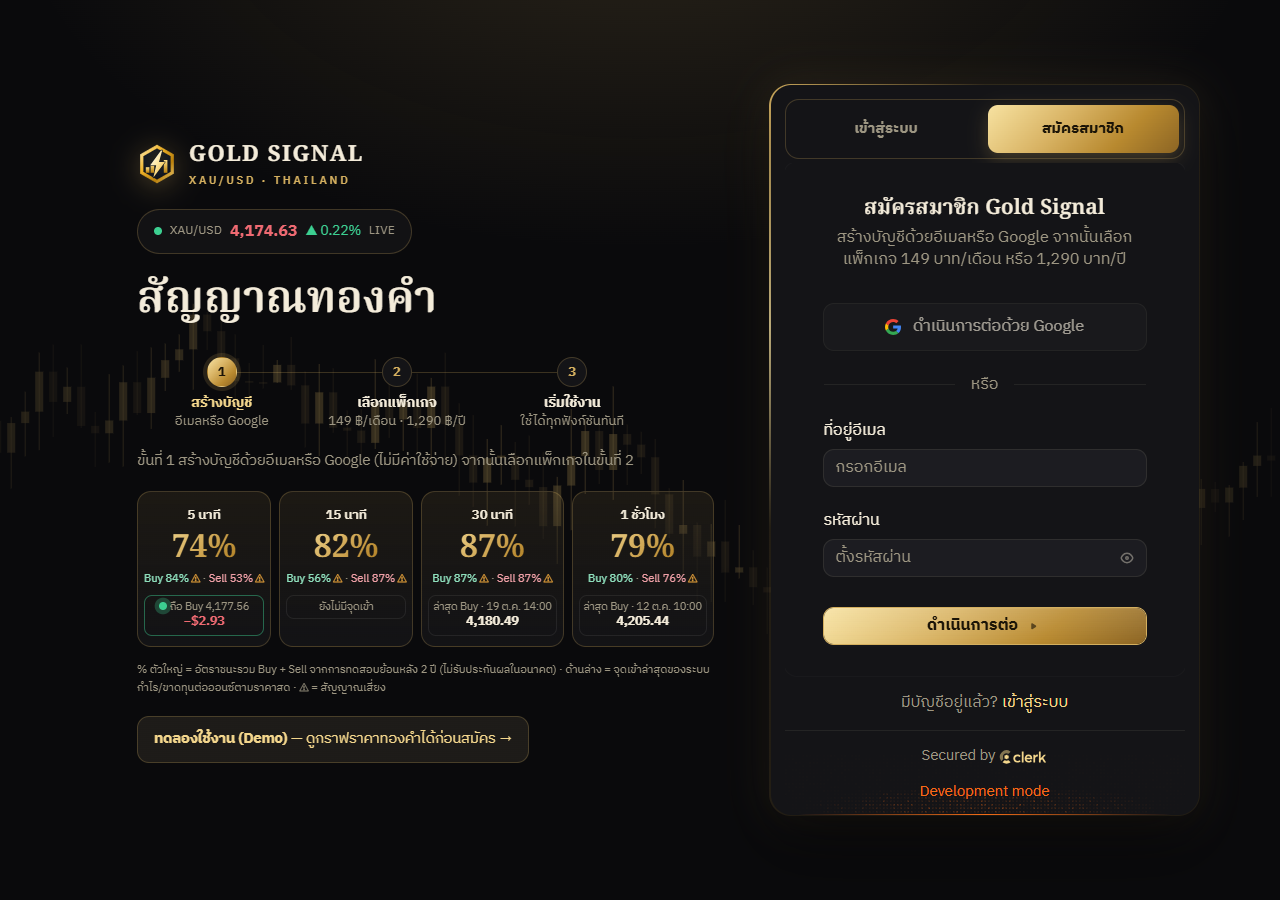
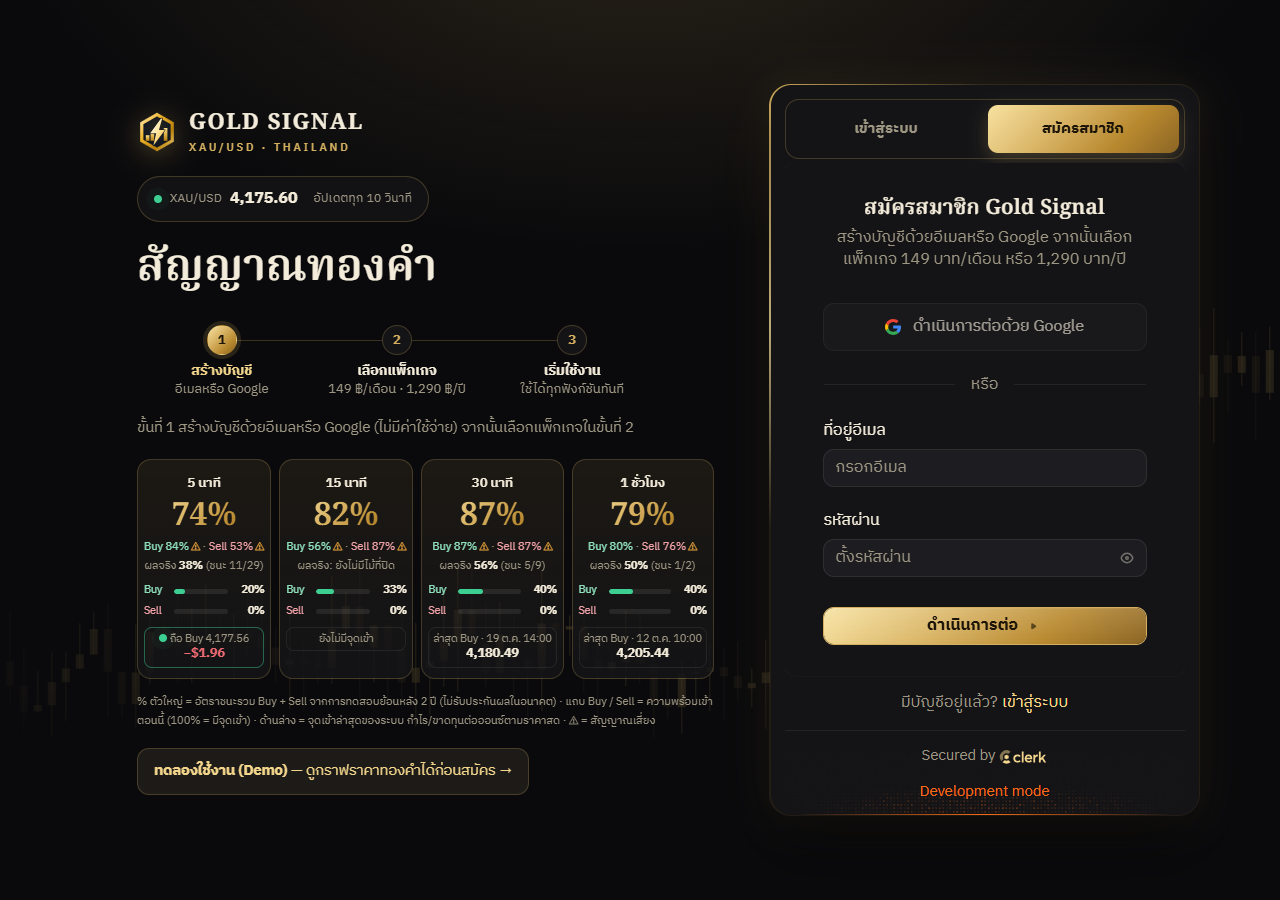
Docs: live readiness on sign-up tiles

Changed region(s): [[0.0938, 0.1244, 0.5625, 0.8711], [0.9375, 0.3733, 1.0, 0.4356], [0.0, 0.4356, 0.0625, 0.4978]]

diff --git a/Skill.md b/Skill.md
@@ -316,6 +316,12 @@ gh workflow run weekly-summary.yml -R tanakrthum254614-max/gold-signal -f send=t
 
 > จัดเรียงใหม่ 14 ต.ค. 2569: เนื้อหาเดิมครบทุกหัวข้อ แค่เรียงตามวันที่ (ใหม่ → เก่า) · งานใหม่ให้เพิ่มหัวข้อไว้บนสุดของส่วนนี้
 
+## 19 ต.ค. 2569 — ⚡ ช่อง 4 กรอบ: ความพร้อมเข้าสด + ผลจริง
+- ผู้ใช้: "ขอแบบเรียลไทม์ให้ตัวเลขเรียลไทม์ในการเข้าและขยับเปอร์เซ็นต่างๆ" → ถาม → "ทั้งสองแบบ"
+- lib/blog.mjs `?blog=1&ready=1` (public): createRequire → chartsys.js (+ intraday/indicators/signals) · Binance PAXG klines 5m/15m/30m/1h(1000 → h5)/4h · `CS.decide(sys, frames, now, [], true)` (แท่งที่กำลังวิ่ง, ไม่ส่งข่าว) → `CS.sideInfo(...).pct` ต่อฝั่ง (null = ไม่มีฝั่งนั้น) · `closed` = dec.stale · cache 10 วิ ต่อ instance · **vercel.json `functions.api/market.mjs.includeFiles = "{chartsys,intraday,indicators,signals}.js"`** (ไม่มีแล้ว function หาไฟล์ไม่เจอ)
+- login.html ช่อง: `.lv` "ผลจริง x% (ชนะ w/n)" รวม Buy+Sell จาก tiles[].buy/sell.live/wins · `.rdy` แถบ Buy/Sell + % (loadReady ทุก 10 วิ, 100% = สีทอง, ตลาดปิด = "ปิด") · tcap อธิบายแถบ
+- ตรวจ: 1h Buy 40% ตรงกับเว็บสมาชิก · tilelive.mjs ตอบ ready=1 ด้วย blogGET จริง · เว็บจริงตอบ ok · commit a5a9a4e
+
 ## 19 ต.ค. 2569 — ✂ หน้าสมัคร: เอา "สัญญาณวันนี้" ออก
 - ผู้ใช้ (ภาพรายการ): "เอาออกห้าตอนสมัครสมาชิก" → login.html ลบ `<div class="today">` (renderToday เหลือแต่ไม่มีที่แสดง → return) · การ์ด #todayCard ในเว็บสมาชิกยังอยู่ · API today ยังอยู่
 - ผู้ใช้ถาม "Sigzy คืออะไร" → ค้นแล้วเจอแอป iOS "Sig-Zy: Binary Signals" (สัญญาณ Forex/ไบนารีออปชัน กราฟ 1–4 ชม. อ้างชนะ 75% — ตรวจสอบไม่ได้) ไม่ได้เพิ่มอะไรในระบบ

diff --git a/README.md b/README.md
@@ -32,7 +32,7 @@
 <td><img src="docs/img/pricing.png" alt="Pricing"><br><sub><b>แพ็กเกจสมาชิก</b> — ชำระผ่าน Stripe (บัตร / PromptPay)</sub></td>
 </tr>
 <tr>
-<td><img src="docs/img/login.png" alt="Sign up"><br><sub><b>การเข้าสู่ระบบและสมัครสมาชิก</b> — จัดวางสองส่วน: ข้อมูลด้านซ้าย แบบฟอร์มด้านขวา พร้อมราคาทองคำแบบเรียลไทม์ อัตราชนะรวมและแยกฝั่ง Buy / Sell จากการทดสอบย้อนหลัง และจุดเข้าล่าสุดของแต่ละกรอบเวลาพร้อมกำไร/ขาดทุนตามราคาสด ขั้นตอน 3 ขั้น และคำถามที่พบบ่อย</sub></td>
+<td><img src="docs/img/login.png" alt="Sign up"><br><sub><b>การเข้าสู่ระบบและสมัครสมาชิก</b> — จัดวางสองส่วน: ข้อมูลด้านซ้าย แบบฟอร์มด้านขวา พร้อมราคาทองคำแบบเรียลไทม์ อัตราชนะรวมและแยกฝั่ง Buy / Sell จากการทดสอบย้อนหลัง ผลจริง ความพร้อมเข้าแบบเรียลไทม์ และจุดเข้าล่าสุดของแต่ละกรอบเวลาพร้อมกำไร/ขาดทุนตามราคาสด ขั้นตอน 3 ขั้น และคำถามที่พบบ่อย</sub></td>
 <td><img src="docs/img/marketing.png" alt="Back office"><br><sub><b>ระบบหลังบ้าน</b> — ผู้ช่วยร่างประกาศการตลาดจากข้อมูลจริง</sub></td>
 </tr>
 </table>
